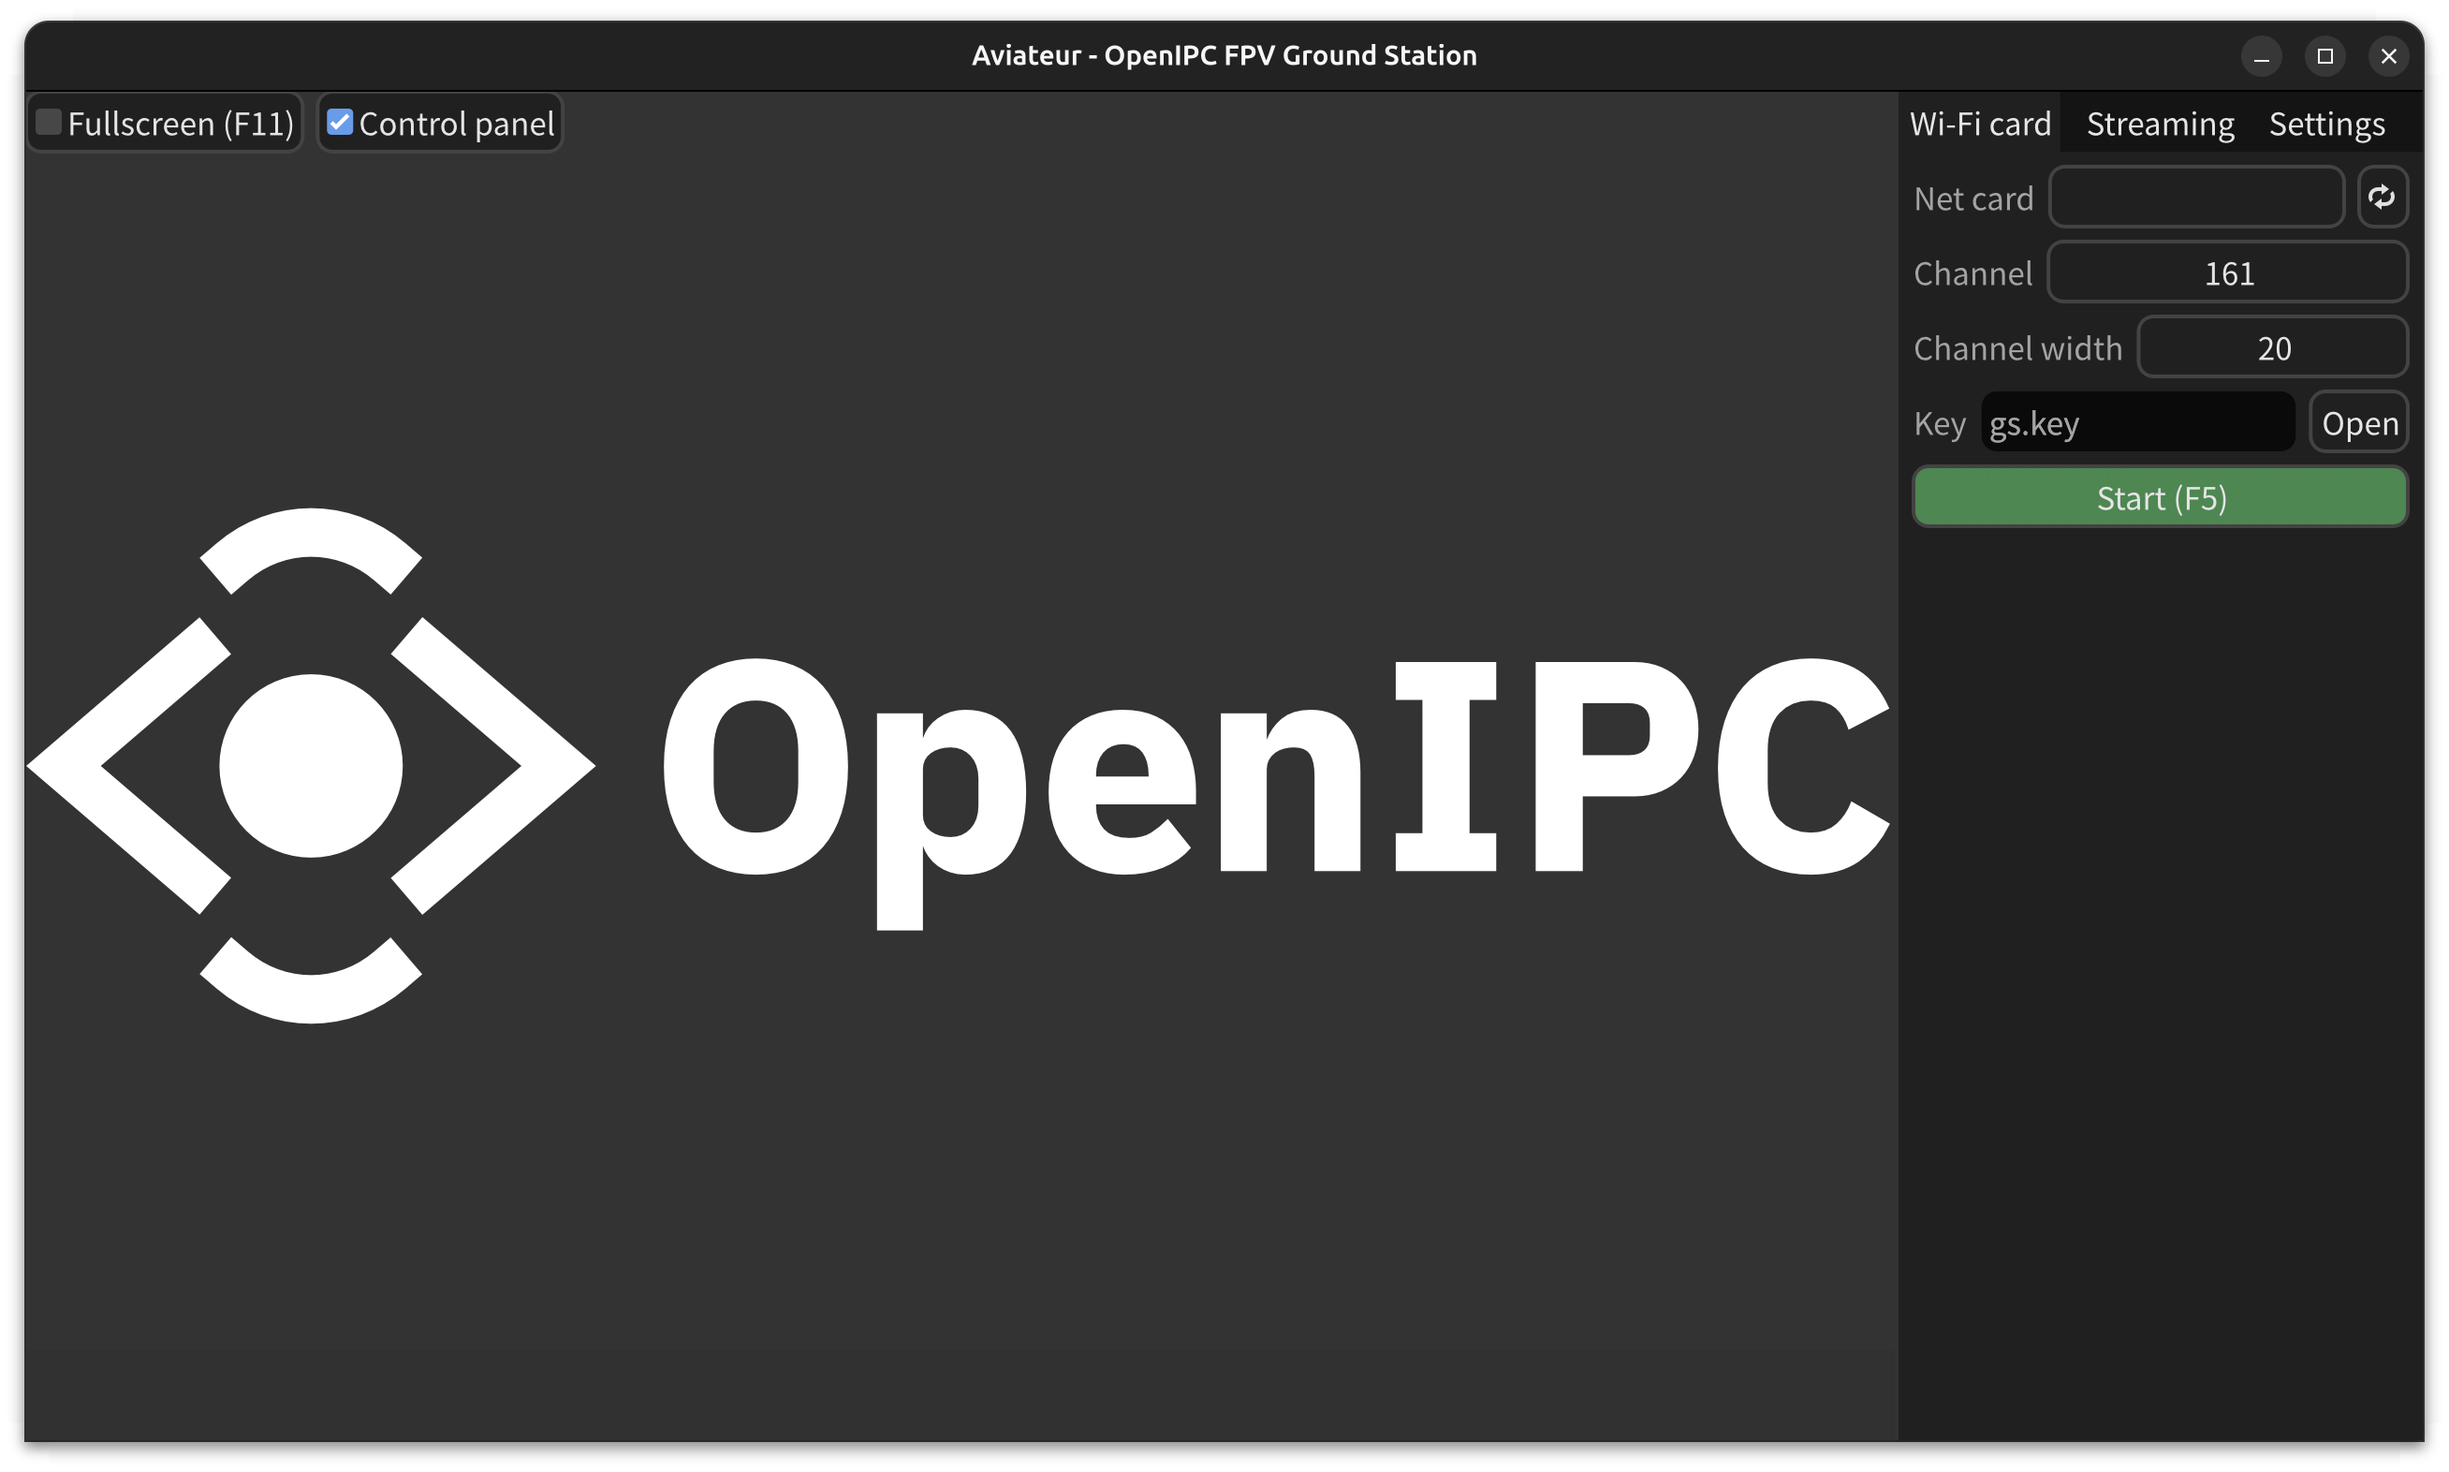
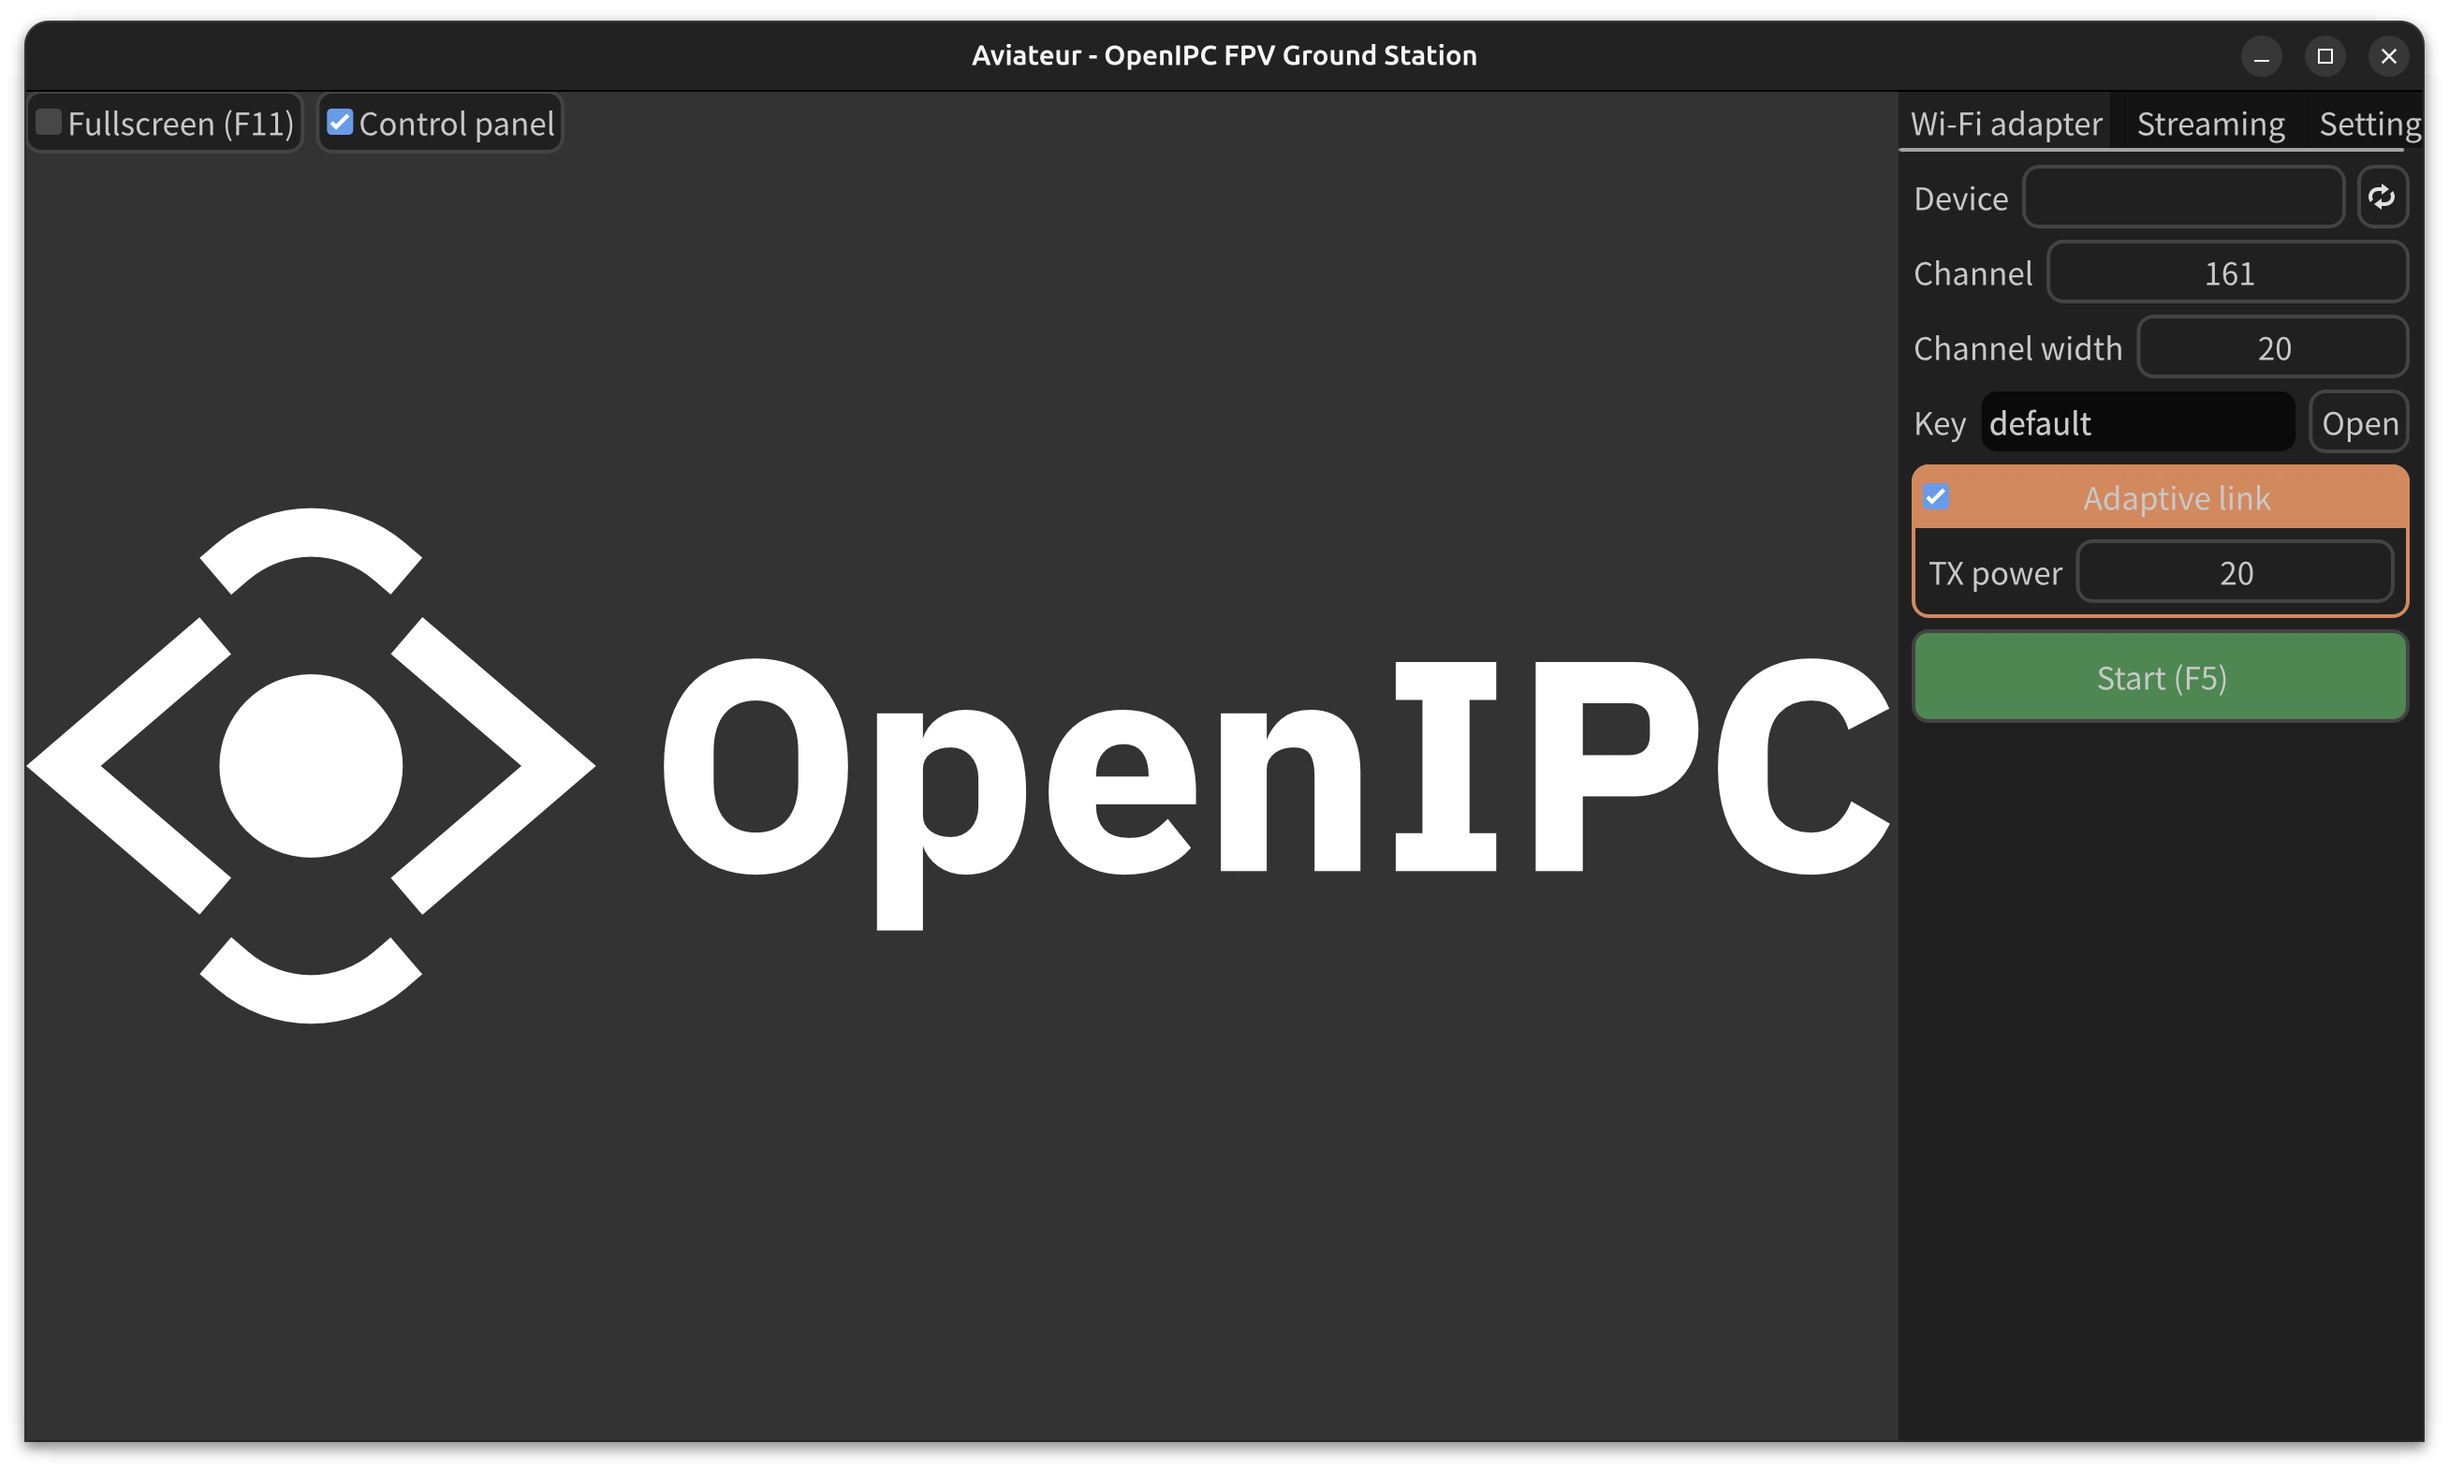
Update README.md

diff --git a/README.md b/README.md
@@ -11,16 +11,19 @@ OpenIPC FPV ground station for Windows & Linux. Forked from [fpv4win](https://gi
 ![](tutorials/interface.png)
 
 > [!NOTE]
-> No AdaptiveLink support.
+> Adaptive Link support only for Linux.
 
 > [!NOTE]
 > Only RTL8812AU Wi-Fi adapter is supported.
+
+> [!NOTE]
+> No MAVLink support.
 
 ### Usage
 
 1. (Only for Windows) Download [Zadig](https://zadig.akeo.ie/)
 2. (Only for Windows) Install the libusb driver for your adapter.
-   Go *Options* → *List All Devices*.
+   Go *Options* → *List All Devices*[Screenshot.cpp](../../Downloads/Screenshot.cpp).
    ![](tutorials/zadig1.jpg)
    Select your adapter. Install the driver. Remember the USB ID, we will need it soon.
    ![](tutorials/zadig2.jpg)
@@ -32,7 +35,9 @@ OpenIPC FPV ground station for Windows & Linux. Forked from [fpv4win](https://gi
 
 ### Common run issues
 
-* If the application crashes at startup on Windows, install [Microsoft Visual C++ Redistributable](https://learn.microsoft.com/en-us/cpp/windows/latest-supported-vc-redist?view=msvc-170#latest-microsoft-visual-c-redistributable-version) first.
+* If the application crashes at startup on Windows,
+  install [Microsoft Visual C++ Redistributable](https://learn.microsoft.com/en-us/cpp/windows/latest-supported-vc-redist?view=msvc-170#latest-microsoft-visual-c-redistributable-version)
+  first.
 
 ### Latency test
 
@@ -60,7 +65,7 @@ OpenIPC FPV ground station for Windows & Linux. Forked from [fpv4win](https://gi
 3. Add VCPKG_ROOT() to environment. (Change the value to your vcpkg path.)
    ![](tutorials/vcpkg.jpg)
 
-4. Clone third-party library source.
+4. Clone third-party library sources.
    ```powershell
    git submodule init
    git submodule update
@@ -68,7 +73,7 @@ OpenIPC FPV ground station for Windows & Linux. Forked from [fpv4win](https://gi
 
 5. Open as a CMake project and build.
 
-### How to build on Linux (Ubuntu 24.04+)
+### How to build on Linux (tested on Ubuntu 24.04)
 
 1. Install dependencies.
    ```bash
